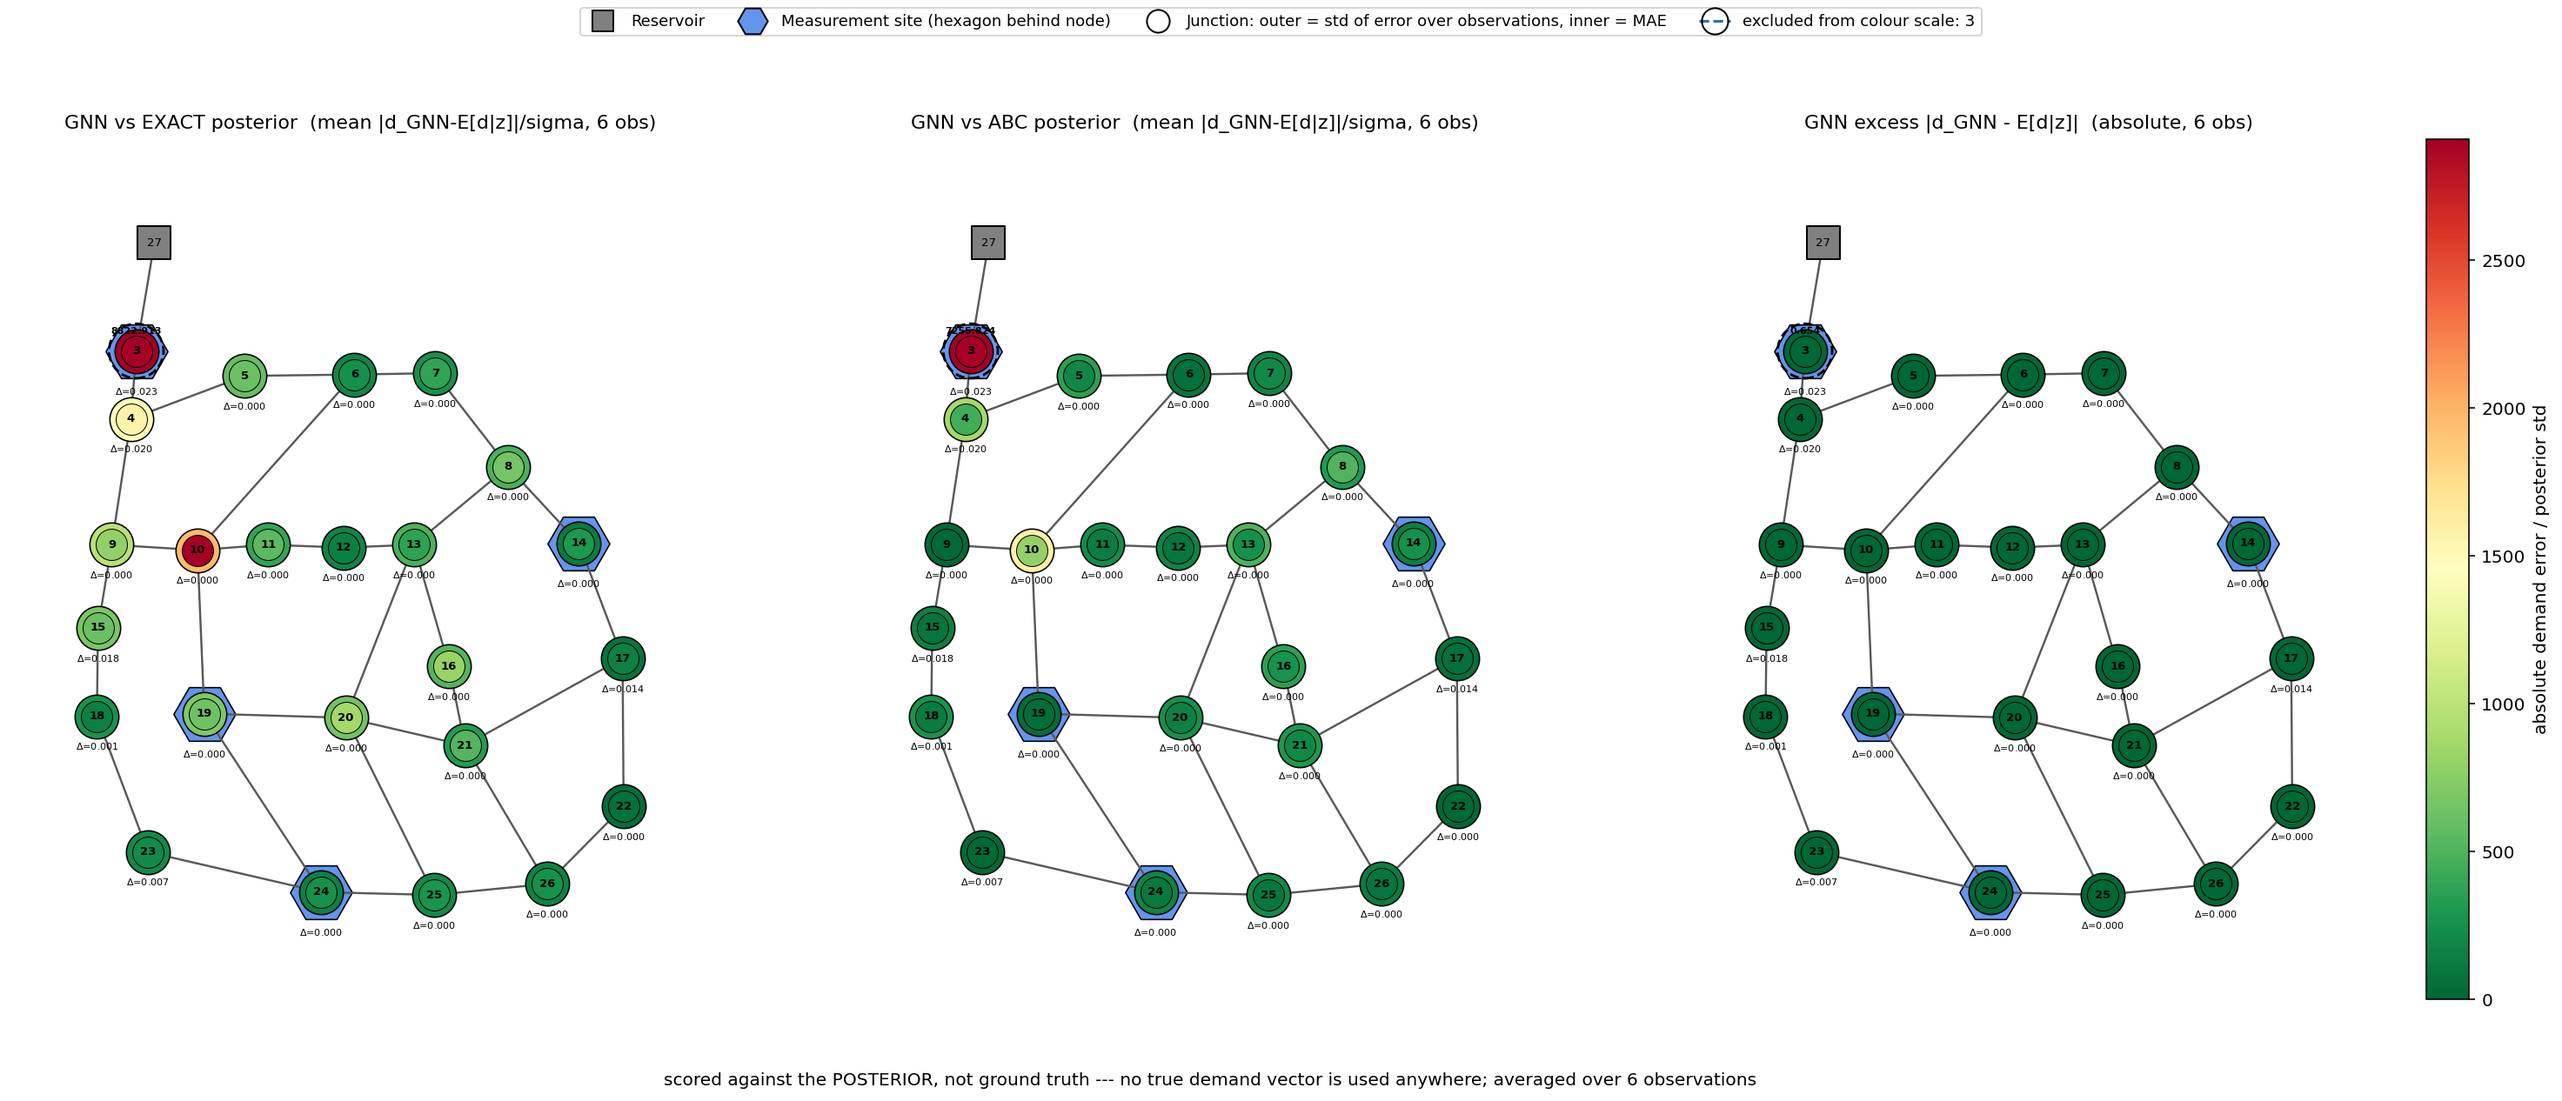
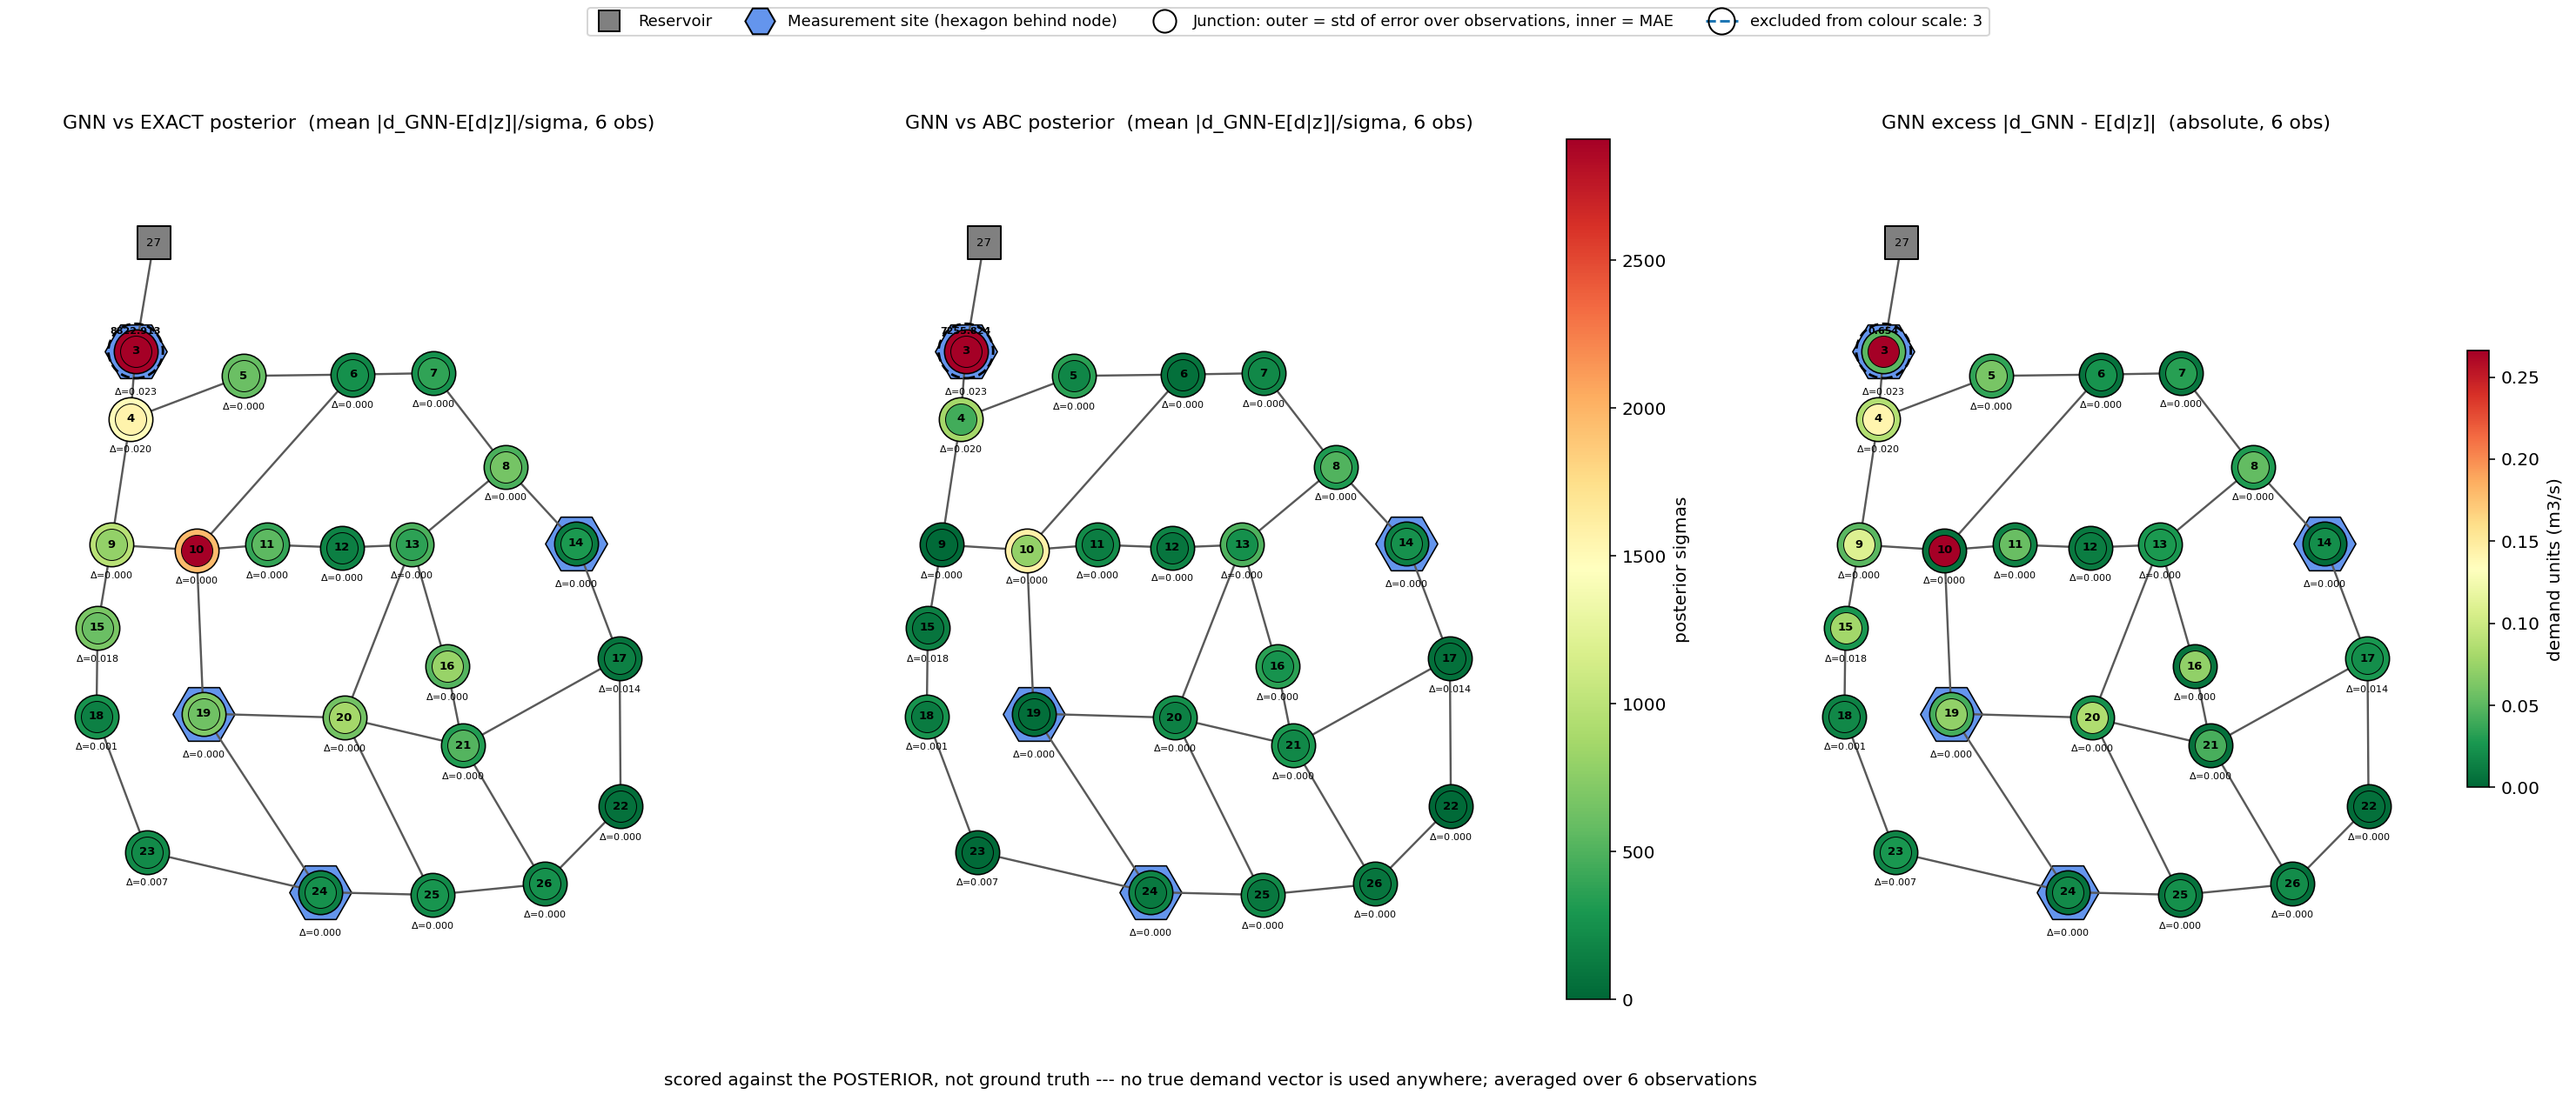
leftovers

diff --git a/scripts/viz_gnn_vs_posterior.py b/scripts/viz_gnn_vs_posterior.py
@@ -212,14 +212,15 @@ def main():
                 print("ERROR: --score vs-posterior needs the GNN", file=sys.stderr); return 2
             Z = np.array(acc["gnn_z"]); E = np.array(acc["gnn_ex"])
             panels.append((f"GNN vs EXACT posterior  (mean |d_GNN-E[d|z]|/sigma, {len(Z)} obs)",
-                           Z.mean(0), Z.std(0)))
+                           Z.mean(0), Z.std(0), "posterior sigmas"))
             if acc["gnn_z_abc"]:
                 Za = np.array(acc["gnn_z_abc"])
                 panels.append((f"GNN vs ABC posterior  (mean |d_GNN-E[d|z]|/sigma, {len(Za)} obs)",
-                               Za.mean(0), Za.std(0)))
+                               Za.mean(0), Za.std(0), "posterior sigmas"))
             panels.append((f"GNN excess |d_GNN - E[d|z]|  (absolute, {len(E)} obs)",
-                           E.mean(0), E.std(0)))
-            for name, m, sd in panels:
+                           E.mean(0), E.std(0), "demand units (m3/s)"))
+            for pnl in panels:
+                name, m = pnl[0], pnl[1]
                 print(f"  {name:<62} mean {m.mean():.4f}  max {m.max():.4f}")
             inc = np.array(inc_acc).mean(0)
             _plot(args, inp, net, J, d0, d0 + inc, sensors, panels,
@@ -313,11 +314,18 @@ def _plot(args, inp, net, J, d0, d_true, sensors, panels, subtitle=None):
     keep = np.array([i for i, j in enumerate(J) if j not in ex], dtype=int)
     if keep.size == 0:
         keep = np.arange(len(J))
-    vmax = max(float(np.max(p[1][keep])) for p in panels)
-    vmax = max(vmax, max((float(np.max(p[2][keep])) for p in panels if p[2] is not None),
-                         default=0.0))
+    # Panels may declare a scale group (4th tuple element).  Panels measured in DIFFERENT
+    # units must not share a colour bar: mixing sigma-scores (order 10^3) with absolute
+    # demands (order 10^-1) renders the latter uniformly green and unreadable.
+    groups = [(p[3] if len(p) > 3 else "default") for p in panels]
+    gmax = {}
+    for p, g in zip(panels, groups):
+        v = float(np.max(p[1][keep]))
+        if p[2] is not None:
+            v = max(v, float(np.max(p[2][keep])))
+        gmax[g] = max(gmax.get(g, 0.0), v)
     cmap = plt.get_cmap("RdYlGn_r")
-    norm = plt.Normalize(0.0, vmax)
+    norms = {g: plt.Normalize(0.0, v if v > 0 else 1.0) for g, v in gmax.items()}
     inc = d_true - d0
 
     # Scale the canvas and the markers with the network size, otherwise anything past ~10
@@ -330,7 +338,9 @@ def _plot(args, inp, net, J, d0, d_true, sensors, panels, subtitle=None):
     fs_id = 9 if n <= 10 else max(6.0, 9 * (10.0 / n) ** 0.35)
     fs_d = 7.5 if n <= 10 else max(5.0, 7.5 * (10.0 / n) ** 0.35)
     fig, axes = plt.subplots(1, len(panels), figsize=(side * len(panels), side * 1.05))
-    for ax, (title, err, sd) in zip(np.atleast_1d(axes), panels):
+    for ax, pnl, g in zip(np.atleast_1d(axes), panels, groups):
+        title, err, sd = pnl[0], pnl[1], pnl[2]
+        norm = norms[g]
         for pid, p in net.pipes.items():
             a, b = p.start_node, p.end_node
             if a in xy and b in xy:
@@ -376,9 +386,16 @@ def _plot(args, inp, net, J, d0, d_true, sensors, panels, subtitle=None):
         handles.append(Line2D([], [], marker="o", ls="--", mfc="none", mec="k", ms=15,
                               label=f"excluded from colour scale: {', '.join(sorted(ex))}"))
     fig.legend(handles=handles, loc="upper center", ncol=len(handles), frameon=True, fontsize=9)
-    cb = fig.colorbar(plt.cm.ScalarMappable(norm=norm, cmap=cmap),
-                      ax=np.atleast_1d(axes).tolist(), fraction=.025, pad=.02)
-    cb.set_label("absolute demand error / posterior std")
+    axl = np.atleast_1d(axes).tolist()
+    seen = []
+    for g in groups:
+        if g in seen:
+            continue
+        seen.append(g)
+        member_axes = [a for a, gg in zip(axl, groups) if gg == g]
+        cb = fig.colorbar(plt.cm.ScalarMappable(norm=norms[g], cmap=cmap),
+                          ax=member_axes, fraction=.03, pad=.02)
+        cb.set_label(g if g != "default" else "absolute demand error / posterior std")
     fig.suptitle(subtitle if subtitle else
                  rf"{args.wdn}: ONE observation, single-leak prior — outer ring = posterior std "
                  rf"for this observation; $\Delta$ = that node's TRUE demand increase $d-d^0$",
